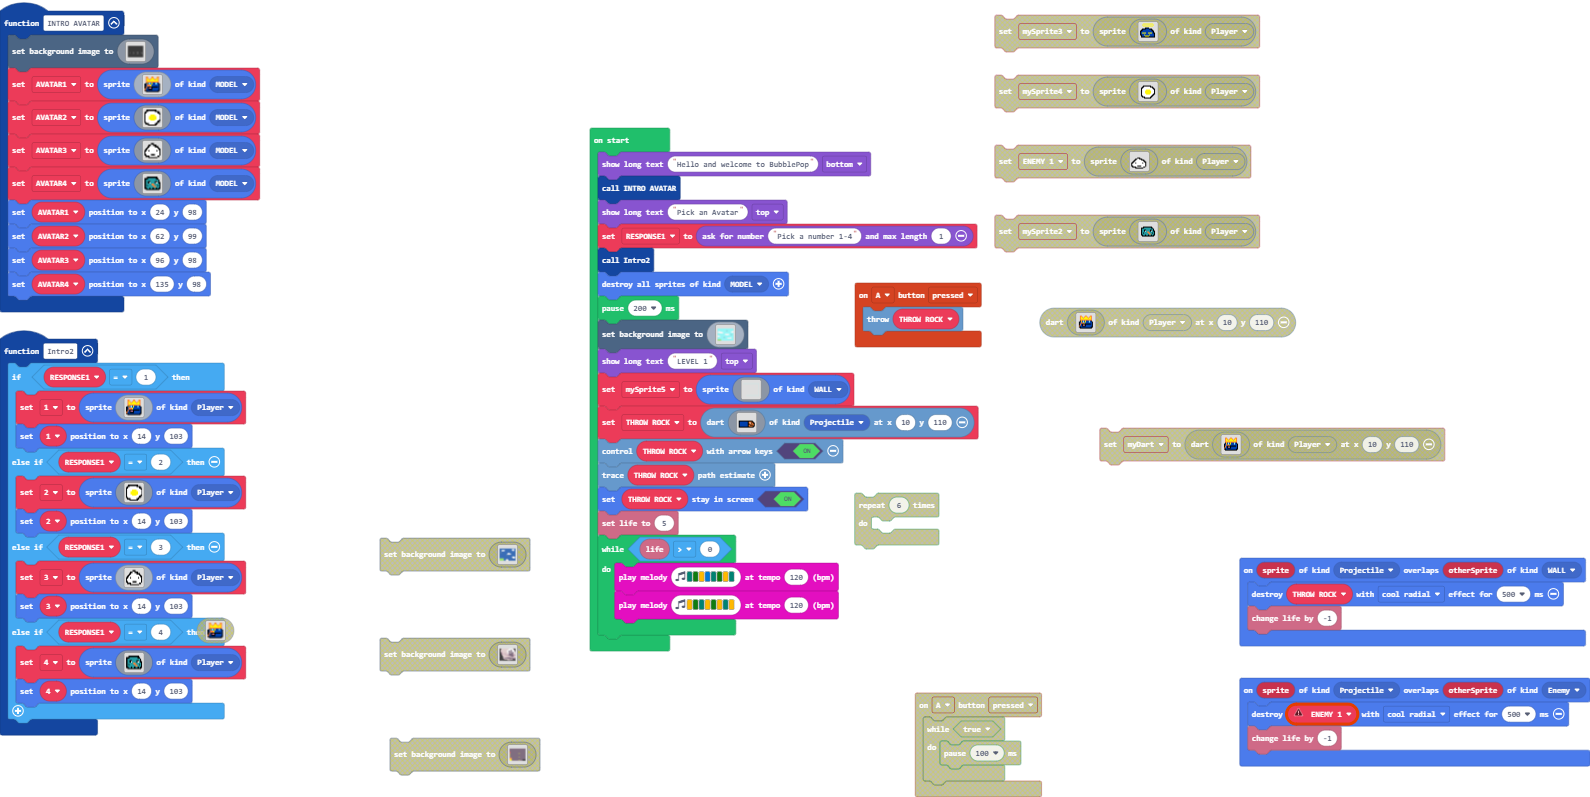
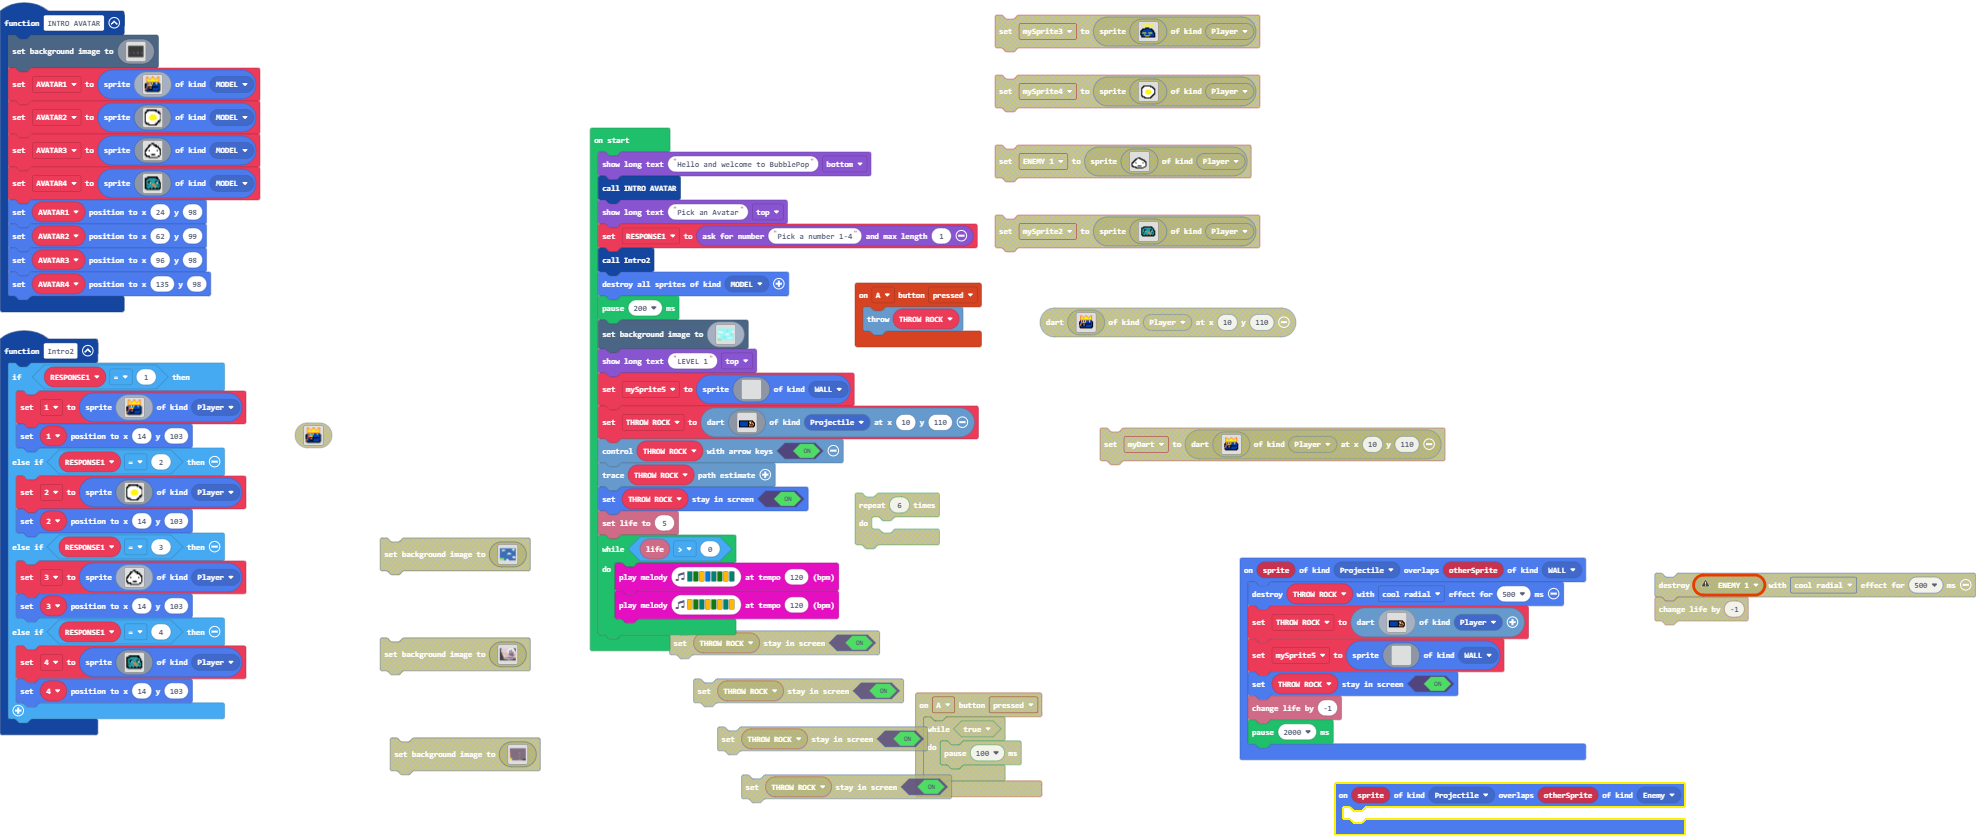
Update main.blocks, main.ts

diff --git a/main.ts b/main.ts
@@ -154,12 +154,152 @@ function Intro2 () {
 }
 sprites.onOverlap(SpriteKind.Projectile, SpriteKind.WALL, function (sprite, otherSprite) {
     THROW_ROCK.destroy(effects.coolRadial, 500)
+    THROW_ROCK = darts.create(img`
+        . . . . . . . . . . . . . . . . 
+        . . . . . . . . . . . . . . . . 
+        . . . . . . . . . . . . . . . . 
+        . . . . . . . . . . . . . . . . 
+        . . . . . . . . . . . . . . . . 
+        . . . . . . . . . . . . . . . . 
+        f f f f f f f f f f f f f f . . 
+        f 8 8 8 8 8 8 8 8 f 4 4 4 f f . 
+        f 8 8 8 8 8 8 8 8 f 4 1 f 4 f f 
+        f 8 8 8 8 8 8 8 8 f f 4 4 4 4 f 
+        f 8 8 8 8 8 8 8 8 f 4 f f f 4 f 
+        f 8 8 8 8 8 8 8 8 f 4 4 4 4 f f 
+        f f f f f f f f f f f f f f f . 
+        . . . . . . . . . . . . . . . . 
+        . . . . . . . . . . . . . . . . 
+        . . . . . . . . . . . . . . . . 
+        `, SpriteKind.Player)
+    mySprite5 = sprites.create(img`
+        ...9999999999999999999999999999999999999999999999999999999999999999999999999999999999999999999999999999999999999999999999999999999999999999999999999999999999999
+        ...............................................................................................................................................................9
+        ...............................................................................................................................................................9
+        ...............................................................................................................................................................9
+        ...............................................................................................................................................................9
+        ...............................................................................................................................................................9
+        ...............................................................................................................................................................9
+        ...............................................................................................................................................................9
+        ...............................................................................................................................................................9
+        ...............................................................................................................................................................9
+        ...............................................................................................................................................................9
+        ...............................................................................................................................................................9
+        ...............................................................................................................................................................9
+        ...............................................................................................................................................................9
+        ...............................................................................................................................................................9
+        ...............................................................................................................................................................9
+        ...............................................................................................................................................................9
+        ...............................................................................................................................................................9
+        ...............................................................................................................................................................9
+        ...............................................................................................................................................................9
+        ...............................................................................................................................................................9
+        ...............................................................................................................................................................9
+        ...............................................................................................................................................................9
+        ...............................................................................................................................................................9
+        ...............................................................................................................................................................9
+        ...............................................................................................................................................................9
+        ...............................................................................................................................................................9
+        ...............................................................................................................................................................9
+        ...............................................................................................................................................................9
+        ...............................................................................................................................................................9
+        ...............................................................................................................................................................9
+        ...............................................................................................................................................................9
+        ...............................................................................................................................................................9
+        ...............................................................................................................................................................9
+        ...............................................................................................................................................................9
+        ...............................................................................................................................................................9
+        ...............................................................................................................................................................9
+        ...............................................................................................................................................................9
+        ...............................................................................................................................................................9
+        ...............................................................................................................................................................9
+        ...............................................................................................................................................................9
+        ...............................................................................................................................................................9
+        ...............................................................................................................................................................9
+        ...............................................................................................................................................................9
+        ...............................................................................................................................................................9
+        ...............................................................................................................................................................9
+        ...............................................................................................................................................................9
+        ...............................................................................................................................................................9
+        ...............................................................................................................................................................9
+        ...............................................................................................................................................................9
+        ...............................................................................................................................................................9
+        ...............................................................................................................................................................9
+        ...............................................................................................................................................................9
+        ...............................................................................................................................................................9
+        ...............................................................................................................................................................9
+        ...............................................................................................................................................................9
+        ...............................................................................................................................................................9
+        ...............................................................................................................................................................9
+        ...............................................................................................................................................................9
+        ...............................................................................................................................................................9
+        ...............................................................................................................................................................9
+        ...............................................................................................................................................................9
+        ...............................................................................................................................................................9
+        ...............................................................................................................................................................9
+        ...............................................................................................................................................................9
+        ...............................................................................................................................................................9
+        ...............................................................................................................................................................9
+        ...............................................................................................................................................................9
+        ...............................................................................................................................................................9
+        ...............................................................................................................................................................9
+        ...............................................................................................................................................................9
+        ...............................................................................................................................................................9
+        ...............................................................................................................................................................9
+        ...............................................................................................................................................................9
+        ...............................................................................................................................................................9
+        ...............................................................................................................................................................9
+        ...............................................................................................................................................................9
+        ...............................................................................................................................................................9
+        ...............................................................................................................................................................9
+        ...............................................................................................................................................................9
+        ...............................................................................................................................................................9
+        ...............................................................................................................................................................9
+        ...............................................................................................................................................................9
+        ...............................................................................................................................................................9
+        ...............................................................................................................................................................9
+        ...............................................................................................................................................................9
+        ...............................................................................................................................................................9
+        ...............................................................................................................................................................9
+        ...............................................................................................................................................................9
+        ...............................................................................................................................................................9
+        ...............................................................................................................................................................9
+        ...............................................................................................................................................................9
+        ...............................................................................................................................................................9
+        ...............................................................................................................................................................9
+        ...............................................................................................................................................................9
+        ...............................................................................................................................................................9
+        ...............................................................................................................................................................9
+        ...............................................................................................................................................................9
+        ...............................................................................................................................................................9
+        ...............................................................................................................................................................9
+        ...............................................................................................................................................................9
+        ...............................................................................................................................................................9
+        ...............................................................................................................................................................9
+        ...............................................................................................................................................................9
+        ...............................................................................................................................................................9
+        ...............................................................................................................................................................9
+        ...............................................................................................................................................................9
+        ...............................................................................................................................................................9
+        ...............................................................................................................................................................9
+        ...............................................................................................................................................................9
+        ...............................................................................................................................................................9
+        ...............................................................................................................................................................9
+        ...............................................................................................................................................................9
+        ...............................................................................................................................................................9
+        ...............................................................................................................................................................9
+        ...............................................................................................................................................................9
+        ...............................................................................................................................................................9
+        ...............................................................................................................................................................9
+        ...............................................................................................................................................................9
+        ...............................999999999999999999999999999999999999999999999999999999999999999999999999999999999999999999999999999999999999999999999999999999999
+        `, SpriteKind.WALL)
+    THROW_ROCK.setStayInScreen(true)
     info.changeLifeBy(-1)
+    pause(2000)
 })
 sprites.onOverlap(SpriteKind.Projectile, SpriteKind.Enemy, function (sprite, otherSprite) {
-    let ENEMY_1: Sprite = null
-    ENEMY_1.destroy(effects.coolRadial, 500)
-    info.changeLifeBy(-1)
+	
 })
 function INTRO_AVATAR () {
     scene.setBackgroundImage(img`
@@ -430,6 +570,7 @@ let AVATAR3: Sprite = null
 let AVATAR2: Sprite = null
 let AVATAR1: Sprite = null
 let THROW_ROCK: Dart = null
+let mySprite5: Sprite = null
 let RESPONSE1 = 0
 let _4: Sprite = null
 let _3: Sprite = null
@@ -565,7 +706,7 @@ scene.setBackgroundImage(img`
     7777777777777777777777777777777777777999999999999999999999999999999999999999999999999999999999999999999999999999999999999999999999999999999999999999999999999999
     `)
 game.showLongText("LEVEL 1", DialogLayout.Top)
-let mySprite5 = sprites.create(img`
+mySprite5 = sprites.create(img`
     ...9999999999999999999999999999999999999999999999999999999999999999999999999999999999999999999999999999999999999999999999999999999999999999999999999999999999999
     ...............................................................................................................................................................9
     ...............................................................................................................................................................9
